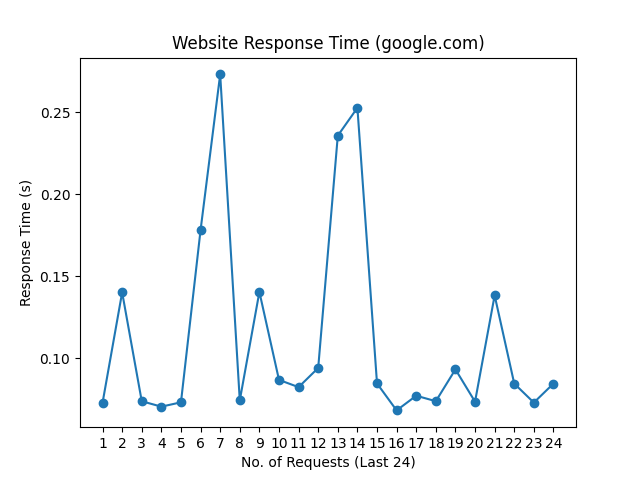
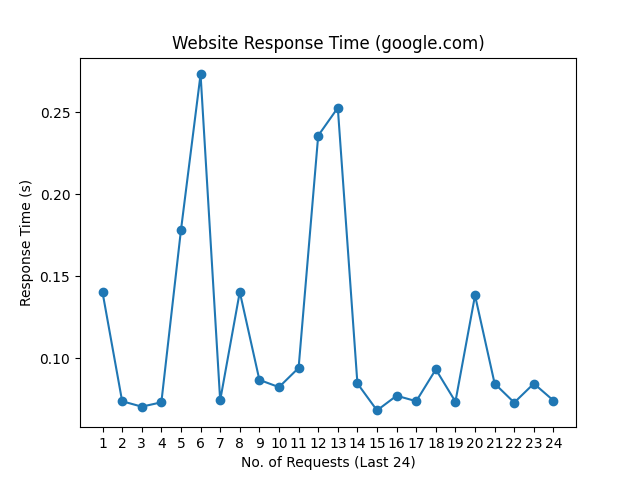
update README.md, history and graph

Changed region(s): [[0.1562, 0.125, 0.875, 0.875]]

diff --git a/README.md b/README.md
@@ -1,10 +1,10 @@
 # Web Monitoring
 
-Last Checked: 27/10/2024 08:21
+Last Checked: 28/10/2024 08:21
 
 | Website | Response Time (s) | Status | Avg Uptime (%) |
 |---------|-------------------|--------|----------------|
 | www.thiswebsiteisdown.net | 0 <br> <img src="graph/thiswebsiteisdown.net.png" alt="Graph" width="200" height="200">  | ❌ Down | 0.00 |
-| www.netflix.com | 1.713250 <br> <img src="graph/netflix.com.png" alt="Graph" width="200" height="200">  | ✅ Up | 100.00 |
-| www.google.com | 0.084580 <br> <img src="graph/google.com.png" alt="Graph" width="200" height="200">  | ✅ Up | 100.00 |
-| www.facebook.com | 1.070721 <br> <img src="graph/facebook.com.png" alt="Graph" width="200" height="200">  | ✅ Up | 100.00 |
+| www.netflix.com | 0.874668 <br> <img src="graph/netflix.com.png" alt="Graph" width="200" height="200">  | ✅ Up | 100.00 |
+| www.google.com | 0.074231 <br> <img src="graph/google.com.png" alt="Graph" width="200" height="200">  | ✅ Up | 100.00 |
+| www.facebook.com | 0.928759 <br> <img src="graph/facebook.com.png" alt="Graph" width="200" height="200">  | ✅ Up | 100.00 |
